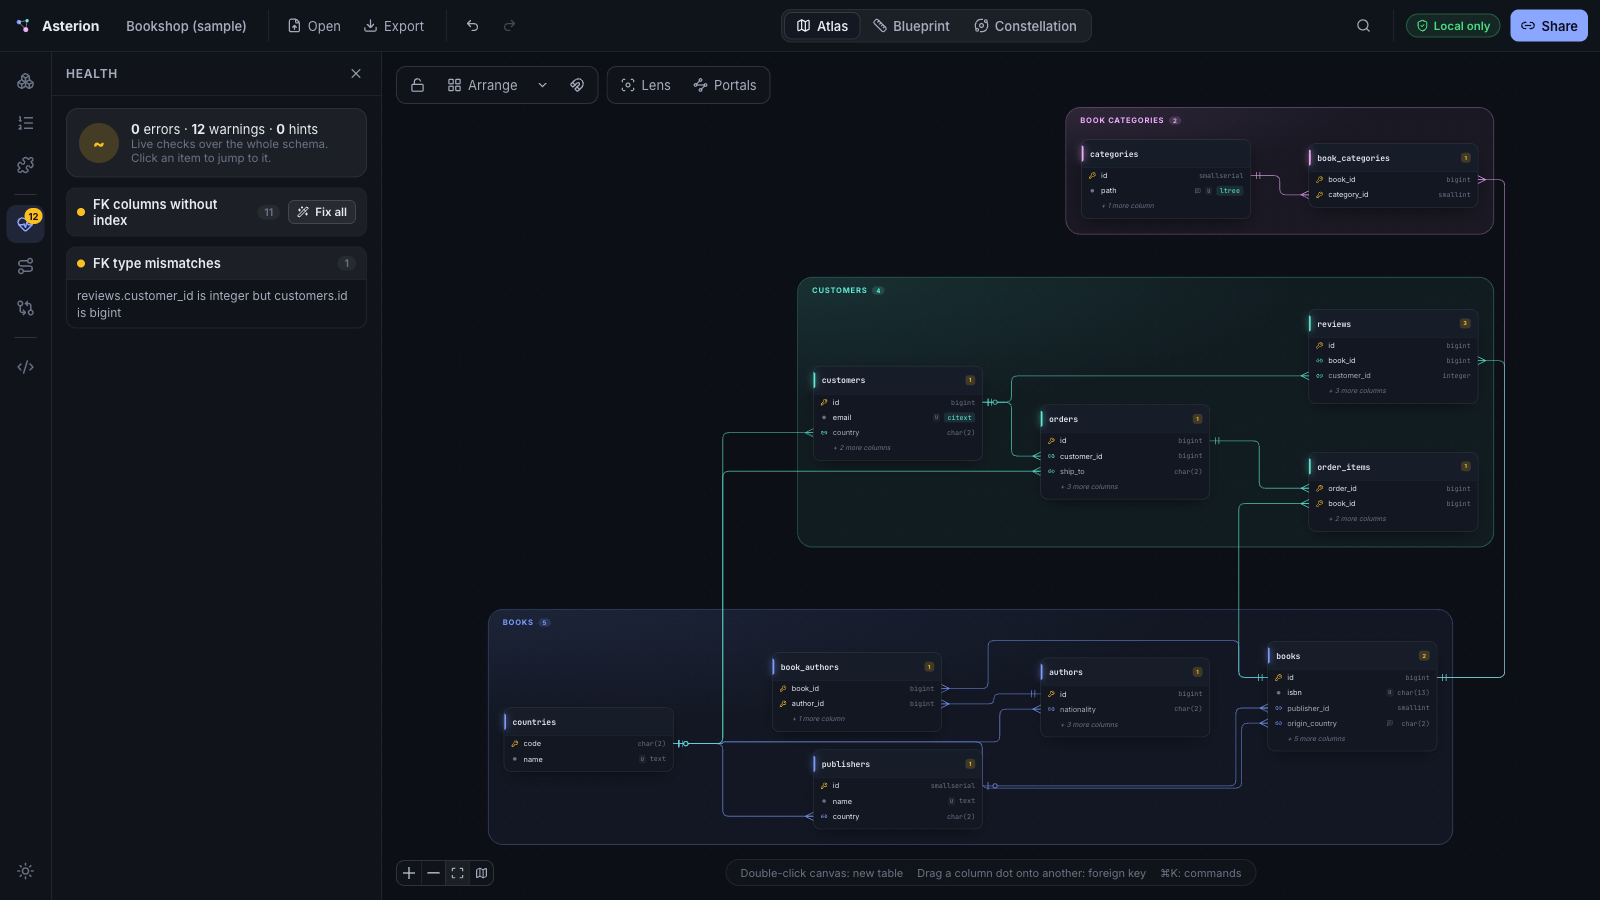
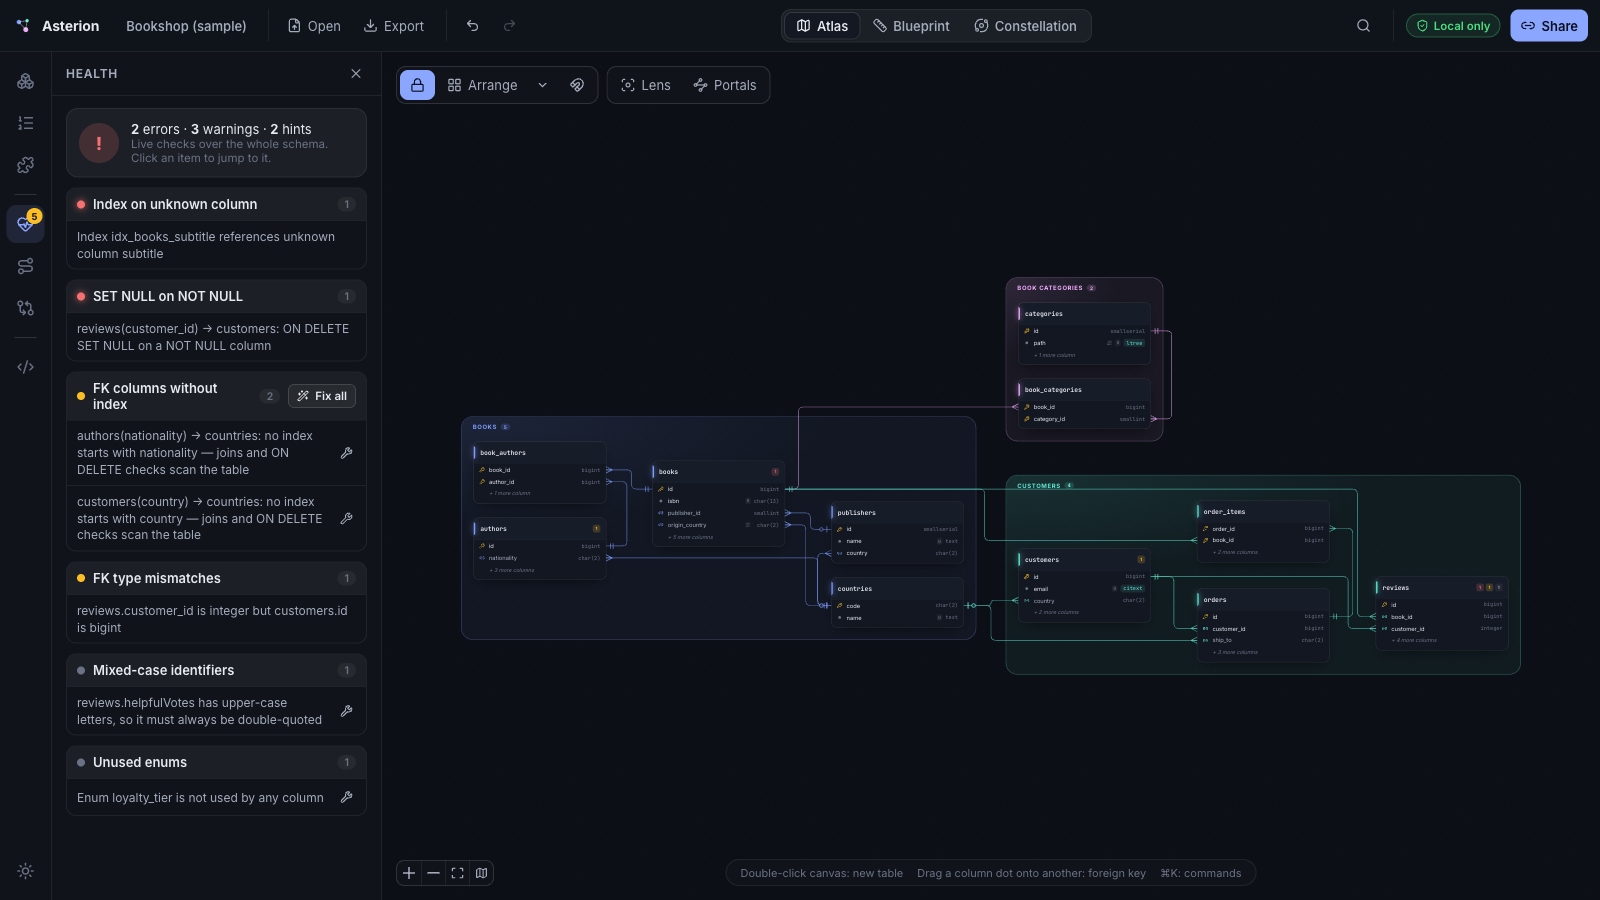
Retake the Health screenshot with 2 errors, 3 warnings and 2 hints, every group unfolded and all visible at once

diff --git a/README.md b/README.md
@@ -57,7 +57,7 @@ index, redundant indexes, foreign keys whose type doesn't match the column they 
 types used without the extension, `SET NULL` on a `NOT NULL` column, double-escaped comments,
 mixed-case names, unused enums… Click an issue to jump to it.
 
-<img src="public/medias/health.png" alt="The Health panel listing 11 foreign-key columns without an index and one type mismatch" width="100%">
+<img src="public/medias/health.png" alt="The Health panel with 2 errors, 3 warnings and 2 hints, every group unfolded: an index on an unknown column, SET NULL on a NOT NULL column, foreign keys without an index, a type mismatch, a mixed-case column and an unused enum" width="100%">
 
 ### 🔀 Join paths: from two tables to a ready-to-run query
 
